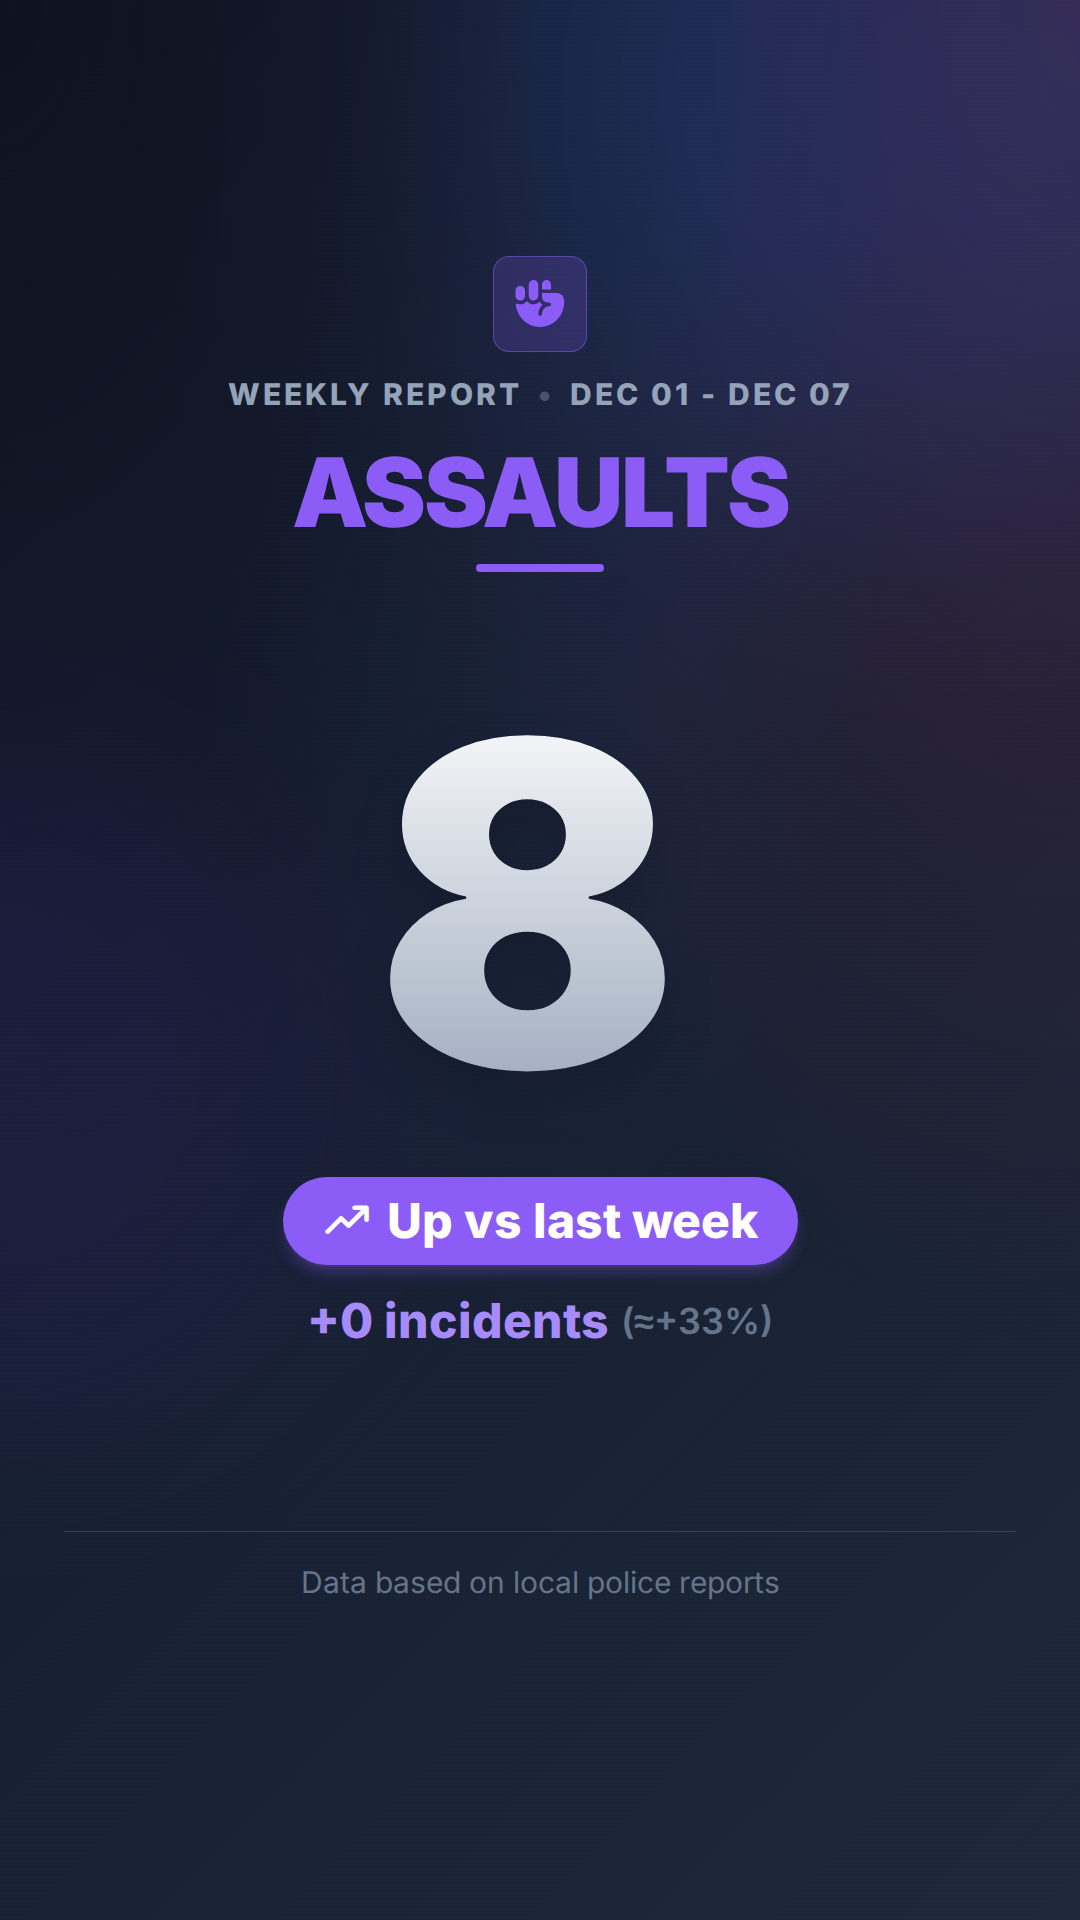
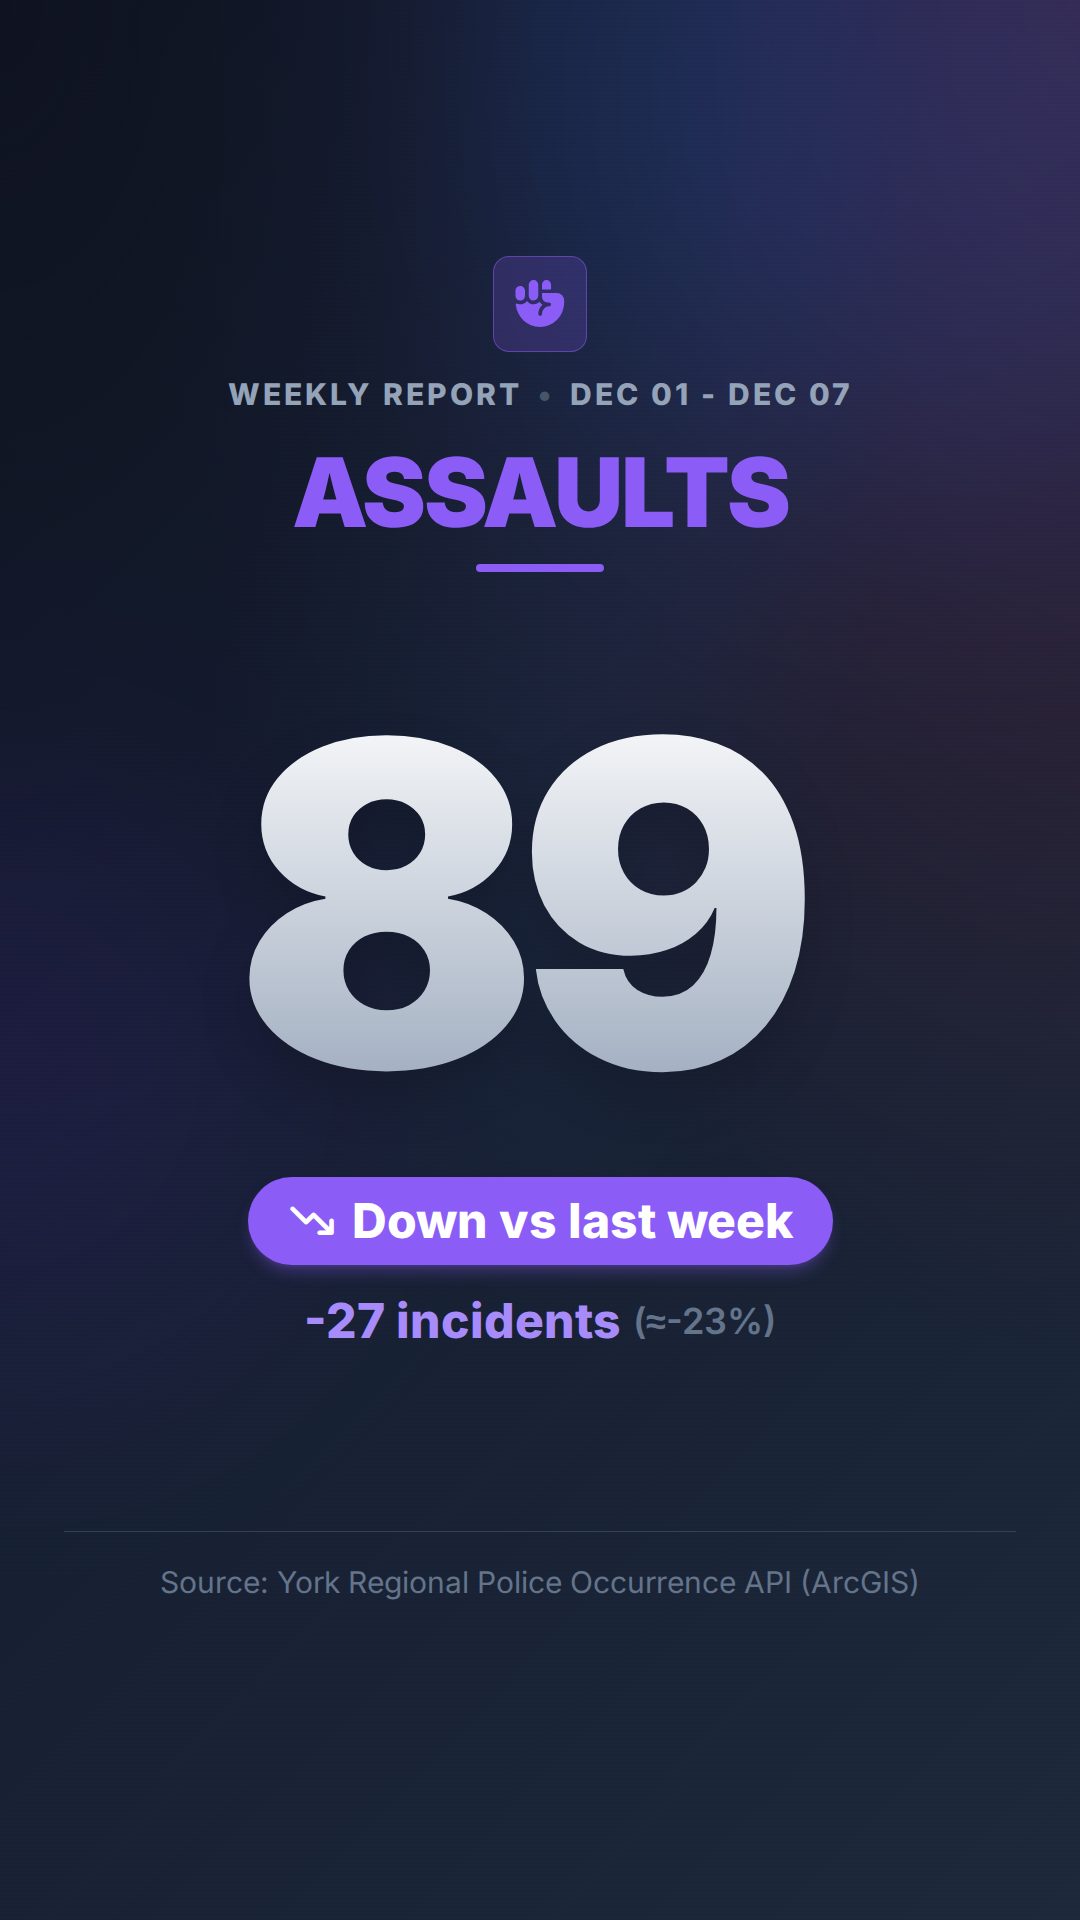
Update stats and screenshots 2025-12-07

diff --git a/templates/break-enter.html b/templates/break-enter.html
@@ -1,17 +1,17 @@
 <!DOCTYPE html>
+
 <html lang="en">
 <head>
-    <meta charset="UTF-8">
-    <meta name="viewport" content="width=device-width, initial-scale=1.0">
-    <title>Break & Enter Stat Card</title>
-    <!-- Tailwind CSS -->
-    <script src="https://cdn.tailwindcss.com"></script>
-    <!-- Google Fonts: Inter for clean, modern look -->
-    <link href="https://fonts.googleapis.com/css2?family=Inter:wght@400;600;800;900&display=swap" rel="stylesheet">
-    <!-- Phosphor Icons -->
-    <script src="https://unpkg.com/@phosphor-icons/web"></script>
-
-    <style>
+<meta charset="utf-8"/>
+<meta content="width=device-width, initial-scale=1.0" name="viewport"/>
+<title>Break &amp; Enter Stat Card</title>
+<!-- Tailwind CSS -->
+<script src="https://cdn.tailwindcss.com"></script>
+<!-- Google Fonts: Inter for clean, modern look -->
+<link href="https://fonts.googleapis.com/css2?family=Inter:wght@400;600;800;900&amp;display=swap" rel="stylesheet"/>
+<!-- Phosphor Icons -->
+<script src="https://unpkg.com/@phosphor-icons/web"></script>
+<style>
         body {
             font-family: 'Inter', sans-serif;
             background-color: #1e293b; /* Slate 800 for the editor background */
@@ -68,81 +68,64 @@
     </style>
 </head>
 <body>
-
-    <!-- The 1080x1920 Canvas -->
-    <div id="story-card" class="flex flex-col text-white overflow-hidden">
-        
-        <!-- Background Effects -->
-        <div class="bg-mesh"></div>
-        <div class="scanlines"></div>
-
-        <!-- Decorative Top Circle -->
-        <div class="absolute -top-[300px] -right-[300px] w-[800px] h-[800px] bg-blue-600 rounded-full blur-[150px] opacity-20"></div>
-        <div class="absolute top-[40%] -left-[300px] w-[600px] h-[600px] bg-orange-600 rounded-full blur-[150px] opacity-10"></div>
-
-        <!-- Header Section -->
-        <div class="relative z-10 w-full p-16 pt-64 flex flex-col items-center text-center">
-            
-            <!-- Icon/Label -->
-            <div class="flex flex-col items-center gap-6 mb-8">
-                <!-- Changed Icon to Orange for distinction, using House/Door icon -->
-                <div class="p-4 bg-orange-500/20 rounded-2xl border border-orange-500/50">
-                    <i class="ph-fill ph-house-line text-6xl text-orange-500"></i>
-                </div>
-                <div class="flex items-center gap-4">
-                    <span id="report-label" class="text-3xl font-bold tracking-widest uppercase text-slate-400">Weekly Report</span>
-                    <span class="text-3xl font-bold tracking-widest uppercase text-slate-600">•</span>
-                    <span id="week-range" class="text-3xl font-bold tracking-widest uppercase text-slate-400">Dec 01 - Dec 07</span>
-                </div>
-            </div>
-
-            <!-- Big Title -->
-            <h1 id="metric-title" class="text-8xl font-black tracking-tight mb-2">
-                BREAK & <span class="text-orange-500">ENTER</span>
-            </h1>
-            <div class="w-32 h-2 bg-orange-500 rounded-full mt-4"></div>
-        </div>
-
-        <!-- Main Content (Centered) -->
-        <div class="relative z-10 flex-1 flex flex-col items-center justify-center -mt-20">
-            
-            <!-- The Big Number Card -->
-            <div class="p-20 flex flex-col items-center relative animate-pulse-slow min-w-[600px]">
-                
-                <!-- Number -->
-                <div class="text-[450px] leading-none font-black tracking-tighter bg-clip-text text-transparent bg-gradient-to-b from-white to-slate-400 drop-shadow-2xl">
-                   <span id="break-enter-count">15</span>
-                </div>
-
-                <!-- Trend Info (Moved Inside) -->
-                <div class="w-full flex flex-col items-center gap-8 mt-8">
-                    
-                    <!-- Trend Chip (Orange Theme) -->
-                    <div class="flex items-center gap-4 bg-orange-500 text-white px-10 py-5 rounded-full shadow-lg shadow-orange-500/30">
-                        <i class="ph-bold ph-trend-up text-5xl"></i>
-                        <span id="trend-label" class="text-5xl font-bold">Up vs last week</span>
-                    </div>
-
-                    <!-- Small Line Info -->
-                    <div class="flex items-center gap-3">
-                        <span id="delta-incidents" class="text-5xl font-bold text-orange-400">+3 incidents</span>
-                        <span id="delta-percent" class="text-4xl text-slate-500 font-semibold">(≈+25%)</span>
-                    </div>
-                </div>
-
-            </div>
-
-        </div>
-
-        <!-- Footer / Branding Area -->
-        <div class="relative z-10 w-full p-16 pb-80 text-center">
-            <div class="border-t border-slate-700 w-full mb-8"></div>
-            <p id="data-source" class="text-3xl text-slate-500 font-medium">Data based on local police reports</p>
-        </div>
-
-    </div>
-
-    <script>
+<!-- The 1080x1920 Canvas -->
+<div class="flex flex-col text-white overflow-hidden" id="story-card">
+<!-- Background Effects -->
+<div class="bg-mesh"></div>
+<div class="scanlines"></div>
+<!-- Decorative Top Circle -->
+<div class="absolute -top-[300px] -right-[300px] w-[800px] h-[800px] bg-blue-600 rounded-full blur-[150px] opacity-20"></div>
+<div class="absolute top-[40%] -left-[300px] w-[600px] h-[600px] bg-orange-600 rounded-full blur-[150px] opacity-10"></div>
+<!-- Header Section -->
+<div class="relative z-10 w-full p-16 pt-64 flex flex-col items-center text-center">
+<!-- Icon/Label -->
+<div class="flex flex-col items-center gap-6 mb-8">
+<!-- Changed Icon to Orange for distinction, using House/Door icon -->
+<div class="p-4 bg-orange-500/20 rounded-2xl border border-orange-500/50">
+<i class="ph-fill ph-house-line text-6xl text-orange-500"></i>
+</div>
+<div class="flex items-center gap-4">
+<span class="text-3xl font-bold tracking-widest uppercase text-slate-400" id="report-label">Weekly Report</span>
+<span class="text-3xl font-bold tracking-widest uppercase text-slate-600">•</span>
+<span class="text-3xl font-bold tracking-widest uppercase text-slate-400" id="week-range">Dec 01 - Dec 07</span>
+</div>
+</div>
+<!-- Big Title -->
+<h1 class="text-8xl font-black tracking-tight mb-2" id="metric-title">
+                BREAK &amp; <span class="text-orange-500">ENTER</span>
+</h1>
+<div class="w-32 h-2 bg-orange-500 rounded-full mt-4"></div>
+</div>
+<!-- Main Content (Centered) -->
+<div class="relative z-10 flex-1 flex flex-col items-center justify-center -mt-20">
+<!-- The Big Number Card -->
+<div class="p-20 flex flex-col items-center relative animate-pulse-slow min-w-[600px]">
+<!-- Number -->
+<div class="text-[450px] leading-none font-black tracking-tighter bg-clip-text text-transparent bg-gradient-to-b from-white to-slate-400 drop-shadow-2xl">
+<span id="break-enter-count">39</span>
+</div>
+<!-- Trend Info (Moved Inside) -->
+<div class="w-full flex flex-col items-center gap-8 mt-8">
+<!-- Trend Chip (Orange Theme) -->
+<div class="flex items-center gap-4 bg-orange-500 text-white px-10 py-5 rounded-full shadow-lg shadow-orange-500/30">
+<i class="ph-bold text-5xl ph-trend-down"></i>
+<span class="text-5xl font-bold" id="trend-label">Down vs last week</span>
+</div>
+<!-- Small Line Info -->
+<div class="flex items-center gap-3">
+<span class="text-5xl font-bold text-orange-400" id="delta-incidents">-25 incidents</span>
+<span class="text-4xl text-slate-500 font-semibold" id="delta-percent">(≈-39%)</span>
+</div>
+</div>
+</div>
+</div>
+<!-- Footer / Branding Area -->
+<div class="relative z-10 w-full p-16 pb-80 text-center">
+<div class="border-t border-slate-700 w-full mb-8"></div>
+<p class="text-3xl text-slate-500 font-medium" id="data-source">Source: York Regional Police Occurrence API (ArcGIS)</p>
+</div>
+</div>
+<script>
         // Scaling Logic to fit the 1080x1920 card in the viewport
         function scaleCard() {
             const card = document.getElementById('story-card');

diff --git a/templates/assaults.html b/templates/assaults.html
@@ -87,7 +87,7 @@
 <div class="flex items-center gap-4">
 <span class="text-3xl font-bold tracking-widest uppercase text-slate-400">Weekly Report</span>
 <span class="text-3xl font-bold tracking-widest uppercase text-slate-600">•</span>
-<span class="text-3xl font-bold tracking-widest uppercase text-slate-400" id="week-range">Nov 30 - Dec 06</span>
+<span class="text-3xl font-bold tracking-widest uppercase text-slate-400" id="week-range">Dec 01 - Dec 07</span>
 </div>
 </div>
 <!-- Big Title -->
@@ -102,18 +102,18 @@
 <div class="p-20 flex flex-col items-center relative animate-pulse-slow min-w-[600px]">
 <!-- Number -->
 <!-- Added pr-12 (padding-right) and pb-4 to prevent clipping of the large glyph -->
-<div class="text-[450px] leading-none font-black tracking-tighter bg-clip-text text-transparent bg-gradient-to-b from-white to-slate-400 drop-shadow-2xl pr-12 pb-4" id="assaults-count">78</div>
+<div class="text-[450px] leading-none font-black tracking-tighter bg-clip-text text-transparent bg-gradient-to-b from-white to-slate-400 drop-shadow-2xl pr-12 pb-4" id="assaults-count">89</div>
 <!-- Trend Info (Moved Inside) -->
 <div class="w-full flex flex-col items-center gap-8 mt-8">
 <!-- Trend Chip (Violet Theme) -->
 <div class="flex items-center gap-4 bg-violet-500 text-white px-10 py-5 rounded-full shadow-lg shadow-violet-500/30">
-<i class="ph-bold ph-trend-up text-5xl"></i>
+<i class="ph-bold text-5xl ph-trend-down"></i>
 <span class="text-5xl font-bold" id="trend-label">Down vs last week</span>
 </div>
 <!-- Small Line Info -->
 <div class="flex items-center gap-3">
-<span class="text-5xl font-bold text-violet-400" id="delta-incidents">-39 incidents</span>
-<span class="text-4xl text-slate-500 font-semibold" id="delta-percent">(≈-33%)</span>
+<span class="text-5xl font-bold text-violet-400" id="delta-incidents">-27 incidents</span>
+<span class="text-4xl text-slate-500 font-semibold" id="delta-percent">(≈-23%)</span>
 </div>
 </div>
 </div>
@@ -121,7 +121,7 @@
 <!-- Footer / Branding Area -->
 <div class="relative z-10 w-full p-16 pb-80 text-center">
 <div class="border-t border-slate-700 w-full mb-8"></div>
-<p class="text-3xl text-slate-500 font-medium" id="data-source">Data based on local police reports</p>
+<p class="text-3xl text-slate-500 font-medium" id="data-source">Source: York Regional Police Occurrence API (ArcGIS)</p>
 </div>
 </div>
 <script>

diff --git a/templates/auto-theft.html b/templates/auto-theft.html
@@ -108,7 +108,7 @@
 <div class="w-full flex flex-col items-center gap-8 mt-8">
 <!-- Trend Chip -->
 <div class="flex items-center gap-4 bg-red-500 text-white px-10 py-5 rounded-full shadow-lg shadow-red-500/30">
-<i class="ph-bold ph-trend-up text-5xl"></i>
+<i class="ph-bold text-5xl ph-trend-down"></i>
 <span class="text-5xl font-bold" id="trend-label">Down vs last week</span>
 </div>
 <!-- Small Line Info -->
@@ -122,7 +122,7 @@
 <!-- Footer / Branding Area -->
 <div class="relative z-10 w-full p-16 pb-80 text-center">
 <div class="border-t border-slate-700 w-full mb-8"></div>
-<p class="text-3xl text-slate-500 font-medium" id="data-source">Data based on local police reports</p>
+<p class="text-3xl text-slate-500 font-medium" id="data-source">Source: York Regional Police Occurrence API (ArcGIS)</p>
 </div>
 </div>
 <script>
